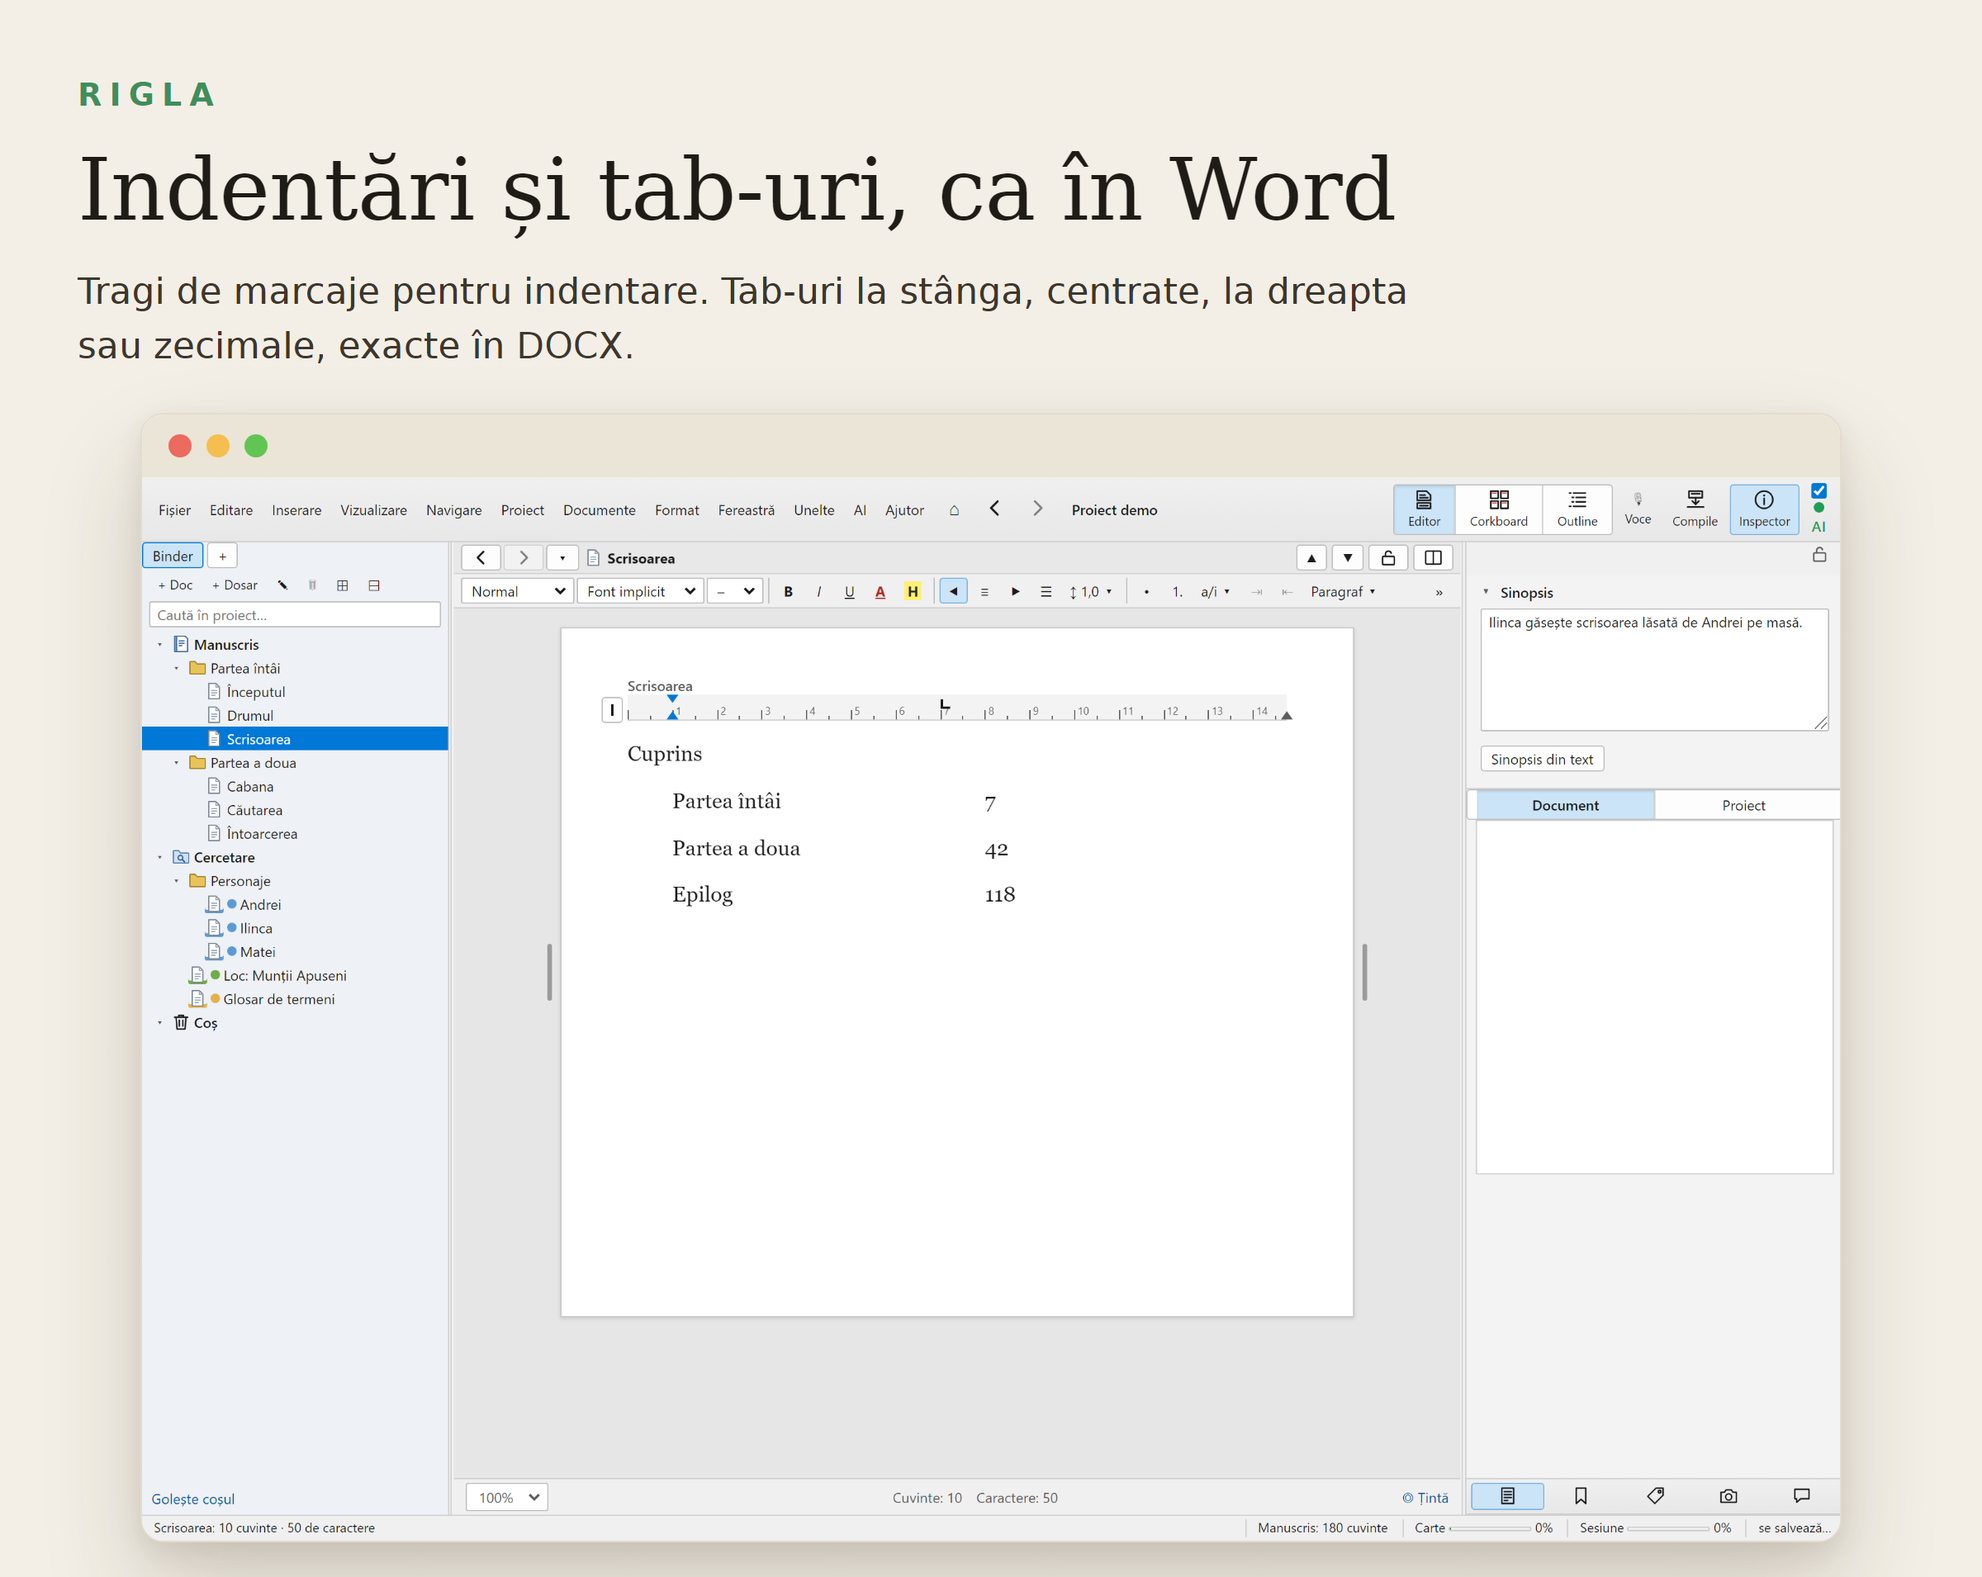
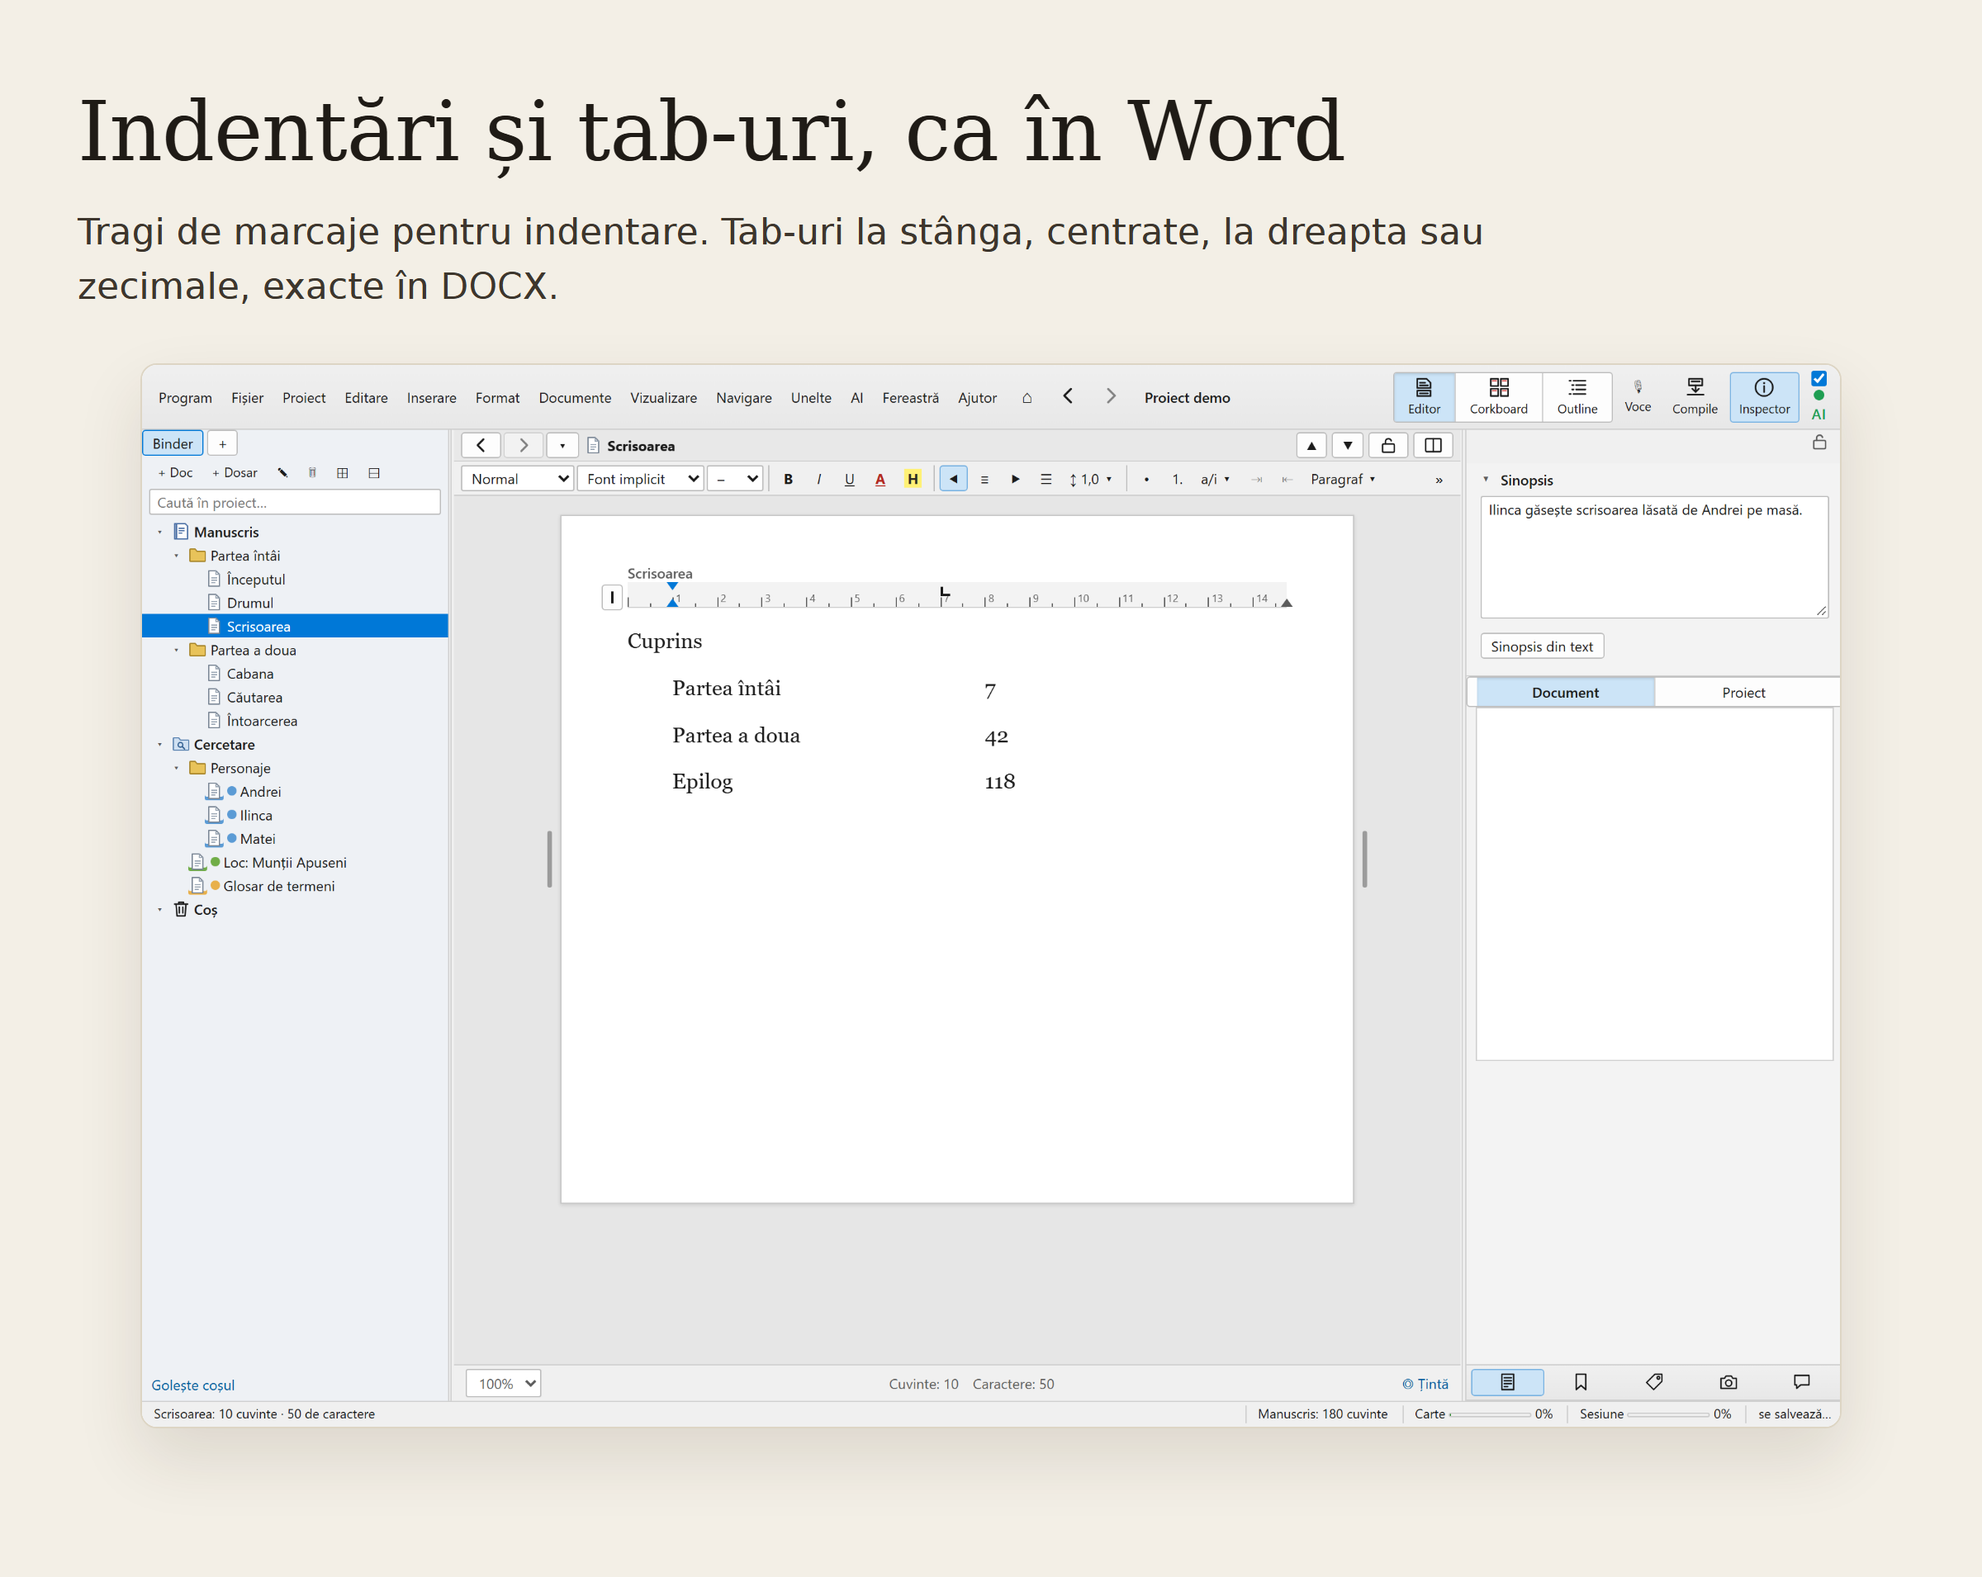
docs(readme): Hallmark floor - hero+CTA, plain screenshot frames, no kickers/fake chrome
README: H1 + one sentence + Descarca pentru Windows; drop middle-dot nav; move search section out of Compile details; fix typos; drop duplicate images. Shots regenerated from demo with plain frame template; cli.png kicker removed; SVGs without status dots, middle dots, tilted cards.

diff --git a/README.md b/README.md
@@ -1,14 +1,11 @@
-<p align="center">
-  <img src="./assets/readme/hero.png" width="100%" alt="Pneuma Sofer, program de scris gratuit: cartea ta pe bucăți, apoi întreagă. Captură cu panoul de fișe al unui roman.">
-</p>
+# Pneuma Sofer
+
+Program gratuit de scris cărți lungi, în română și engleză: textul stă pe fișe, câte una pentru fiecare scenă sau capitol, iar la final primești cartea întreagă.
+
+**[Descarcă pentru Windows](../../releases/latest)**
 
 <p align="center">
-  <a href="../../releases/latest"><strong>Descarcă pentru Windows</strong></a> ·
-  <a href="#3-ce-face">Ce face</a> ·
-  <a href="#5-cum-lucrezi">Cum lucrezi</a> ·
-  <a href="#7-cum-lucrați-împreună">Împreună</a> ·
-  <a href="#8-ce-urmează">Ce urmează</a> ·
-  <a href="#instalare">Instalare</a>
+  <img src="./assets/readme/hero.png" width="100%" alt="Panoul de fișe al unui roman în Pneuma Sofer: fiecare scenă pe fișa ei, binderul în stânga, inspectorul în dreapta">
 </p>
 
 ## 1. Ce este
@@ -25,10 +22,6 @@ Pentru oricine are de scris sau de tradus un text lung și vrea să-l stăpânea
 
 ## 3. Ce face
 
-<p align="center">
-  <img src="./assets/readme/features.svg" width="100%" alt="Ce face: scrii pe fișe, traduci, dictezi, corectezi, cercetezi, lucrați împreună, agenți AI, compilezi cartea întreagă">
-</p>
-
 | Funcția | Pe scurt |
 |---|---|
 | [Scrii pe fișe](#scrii-pe-fișe) | scene și capitole pe fișe, cronologie, legături între documente |
@@ -36,7 +29,8 @@ Pentru oricine are de scris sau de tradus un text lung și vrea să-l stăpânea
 | [Dictezi](#dictezi-dted--dictare-și-transcriere) | F9 și vorbești; textul apare la cursor sau înlocuiește selecția |
 | [Corectezi](#corectezi) | revizie fără AI, corecturi învățate, asistent AI opțional, versiuni |
 | [Cercetezi](#cercetezi) | întrebi sursele și primești răspuns cu trimiteri |
-| [Agenți AI](#agenți-ai) | Claude sau Codex lucrează direct în carte, dacă vrei |
+| [Cauți](#cauți-oriunde) | căutare rapidă, căutare avansată, căutare după formatare |
+| [Agenți AI](#ai-opțional-într-un-singur-loc) | Claude sau Codex lucrează direct în carte, dacă vrei |
 | [Compilezi](#compilezi) | cartea întreagă în Word, PDF, EPUB și alte formate |
 | [Lucrați împreună](#7-cum-lucrați-împreună) | același proiect pe mai multe calculatoare; cine ce a schimbat și când |
 
@@ -90,13 +84,13 @@ Cronologia îți arată pe zile cine unde e, ca să prinzi contradicțiile înai
 
 ### Traduci
 
-Fără nicio configurare, traducerea merge pe endpointul public gratuit al Google (etichetat onest „Google (fără cheie)" — neoficial, fără SLA). Cu cheie Google Cloud Translation sau **conectare cu contul Google (OAuth)**, traducerea folosește API-urile oficiale: se dezvoltă din secțiunea *Setări → Servicii și conturi → Google Cloud Translation* cu butonul „Conectează cu Google" (consimțământ în browser, fără parolă stocată).
-
 <p align="center">
   <img src="./assets/readme/translate.png" width="100%" alt="Originalul englez în stânga și traducerea română în dreapta, pe același ecran">
 </p>
 
 Pui fișierul Word primit de la editură și Pneuma Sofer îl împarte pe capitole. Ții originalul într-o parte și traducerea în cealaltă; fereastra în care scrii are chenar verde, cealaltă e ușor estompată. La final trimiți înapoi un singur fișier Word, cu notele de subsol la locul lor.
+
+Fără nicio configurare, traducerea folosește serviciul public gratuit al Google, marcat în program „Google (fără cheie)”: neoficial și fără garanții. Cu o cheie Google Cloud Translation sau conectat cu contul Google, folosești API-ul oficial; se configurează din *Setări → Servicii și conturi → Google Cloud Translation*, cu butonul „Conectează cu Google” (consimțământ în browser, fără parolă salvată).
 
 <p align="center">
   <img src="./assets/readme/context.png" width="100%" alt="Clic dreapta pe un cuvânt: meniul cu Traduce (DeepL, Google Translate), Dicționare, Cercetare pe web, Asistent AI și În proiect">
@@ -111,10 +105,6 @@ Clic dreapta pe un cuvânt și ai la îndemână:
 - **Asistent AI, În proiect, NotebookLM:** explicație sau traducere, căutare în toată cartea, glosar, întrebări despre termen în sursele tale. Cu un notebook configurat (Setări → Chei și conturi) și serverul `notebooklm-mcp` pornit, apare și „Întreabă NotebookLM pe surse (întrebări de continuare)”: editorul interoghează notebook-ul cu întrebări de continuare până primește un răspuns pe surse.
 
 ### Dictezi: D&TED – Dictare și transcriere
-
-<p align="center">
-  <img src="./assets/readme/voice-team.svg" width="100%" alt="Scrii cu vocea: vorbești și fraza apare pe fișa scenei, fără internet. Lucrați împreună: fiecare om cu culoarea lui pe fișele aceleiași cărți, una blocată de Ana">
-</p>
 
 <p align="center">
   <img src="./assets/readme/dictation.png" width="100%" alt="Dictare în Pneuma Sofer: textul spus apare în scena Începutul, iar jos e bara de dictare cu nivelul microfonului, Pauză, Stop și Anulează">
@@ -178,15 +168,19 @@ Asistentul AI face corectură, rezumate sau o a doua părere; vezi exact ce schi
 
 În **Cercetare → Întreabă** discuți cu sursele tale: primești răspunsul cu trimiteri [1], [2], iar un clic te duce la pasaj. Continui discuția, alegi ce surse folosește (manuscrisul, cercetarea, notele sau anumite dosare), aduci PDF, Word, text sau pagini web și salvezi răspunsul ca notă ori îl inserezi în text, cu trimiterile ca note de subsol. Fără AI, panoul doar caută în surse. Cartea se poate trimite și în **NotebookLM**, **Gemini**, **ChatGPT** sau **Manus**, gata împărțită.
 
-### AI — tot ce ține de AI, într-un singur loc (opțional)
+### Cauți oriunde
 
-<p align="center">
-  <img src="./assets/readme/irep.png" width="100%" alt="Panoul I-REP / I-EDIT: rundele editoriale cu AI, streaming live și estimare de apeluri">
-</p>
+**Ctrl+O** deschide *Căutarea rapidă*: bați câteva litere și apar instant rezultate pe **Titluri**, **Sinopse** și **Text**, cu bucata de context; Enter deschide documentul, Shift îl deschide în panou de referință, Alt în cealaltă jumătate de editor, iar „Căutare completă în proiect" te duce în căutarea avansată cu interogarea precompletată.
 
-Rundele **I-EDIT / I-REP** arată acum răspunsul AI **pe măsură ce se scrie** (streaming live, cronometru, anulare cu Esc) și o **estimare înainte de rulare**: „Estimare: 7 documente × 3 bucle ≈ 21 apeluri AI". Rezultatele serviciilor (gramatică, sinonime, traducere, dicționare) apar **în interiorul paginii**, într-un popover ancorat la selecție, cu mărimi care se potrivesc conținutului — nu ca fereastră peste text și fără trimitere la site-uri externe.
+Căutarea avansată înțelege **operatorii** „începe cu cuvântul" / „se termină cu", **inversarea rezultatelor** (ce NU se potrivește), **sortarea** (binder, titlu A-Z/Z-A, dată), **termenii speciali** („frază exactă", -excludere, wildcard cu *), **sintaxa de date** (`mdate:2026-05`, `cdate:<2y`), filtrul Draft / selecție / Included-Excluded, și ține rezultatele într-o **colecție vie** („Rezultatele căutării") care se actualizează la fiecare deschidere. *Înlocuire* are, pe lângă format, și metadatele personalizate, snapshot-uri („Include snapshot-urile") și schimbă titlurile.
 
-Tot ce folosește AI stă grupat și se pornește sau se oprește dintr-un singur loc (pastila **AI** din bară și *Setări → Chei și conturi*). Fără AI, programul merge întreg: verificarea **I-REP** și reparațiile sigure (deterministe) rămân.
+**Căutare după formatare** (Ctrl+Alt+F) găsește text după stiluri de caracter, linkuri, imagini sau text păstrat (preserve), iar corkboard-ul și outline-ul au **bare de filtrare** (Ctrl+F în vederea lor) care restrâng fișele la ce cauți. Uneltele adaugă **Focalizarea pe dialoguri**: toate replicile din proiect, într-un singur panou, pentru corectură.
+
+### AI, opțional, într-un singur loc
+
+Tot ce folosește AI stă grupat și se pornește sau se oprește dintr-un singur loc: pastila AI din bară și *Setări → Chei și conturi*. Fără AI, programul merge întreg; verificarea I-REP și reparațiile sigure rămân.
+
+Rundele I-EDIT și I-REP arată răspunsul AI pe măsură ce se scrie, cu cronometru și anulare cu Esc, plus o estimare înainte de rulare: „Estimare: 7 documente × 3 bucle ≈ 21 apeluri AI”. Rezultatele serviciilor (gramatică, sinonime, traducere, dicționare) apar în pagină, lângă selecție, nu într-o fereastră peste text.
 
 - **Asistentul AI** — corectură, rezumate sau o a doua părere; vezi exact ce schimbă și accepți doar ce vrei.
 - **I-EDIT** — runde editoriale pe tot textul, cu regulile tale.
@@ -261,15 +255,7 @@ Formatele predefinite nu se modifică: apeși *Duplică*, redenumești copia și
 
 **5. Separatoare și înlocuiri.** În *Separatoare* alegi ce se pune între scene (rând gol, „#”, „* * *”) și între bucăți de tipuri diferite. În *Înlocuiri* schimbi la Compile un text cu altul, cu sau fără majuscule, cuvânt întreg sau expresie regulată; textul tău din proiect rămâne neatins. Tab-ul **Înlocuiri** de la nivel de proiect ține o listă separată, comună tuturor formatelor, aplicată înaintea celor pe format — cu ordine, bifă activ/inactiv și editare chiar și pentru formatele integrate.
 
-### Cauți oriunde, dintr-o lovitură
-
-**Ctrl+O** deschide *Căutarea rapidă*: batzi câteva litere și apar instant rezultate pe **Titluri**, **Sinopse** și **Text**, cu bucata de context; Enter deschide documentul, Shift îl deschide în panou de referință, Alt în cealaltă jumătate de editor, iar „Căutare completă în proiect" te duce în căutarea avansată cu interogarea precompletată.
-
-Căutarea avansată înțelege **operatorii** „începe cu cuvântul" / „se termină cu", **inversarea rezultatelor** (ce NU se potrivește), **sortarea** (binder, titlu A-Z/Z-A, dată), **termenii speciali** („frază exactă", -excludere, wildcard cu *), **sintaxa de date** (`mdate:2026-05`, `cdate:<2y`), filtrul Draft / selecție / Included-Excluded, și ține rezultatele într-o **colecție vie** („Rezultatele căutării") care se actualizează la fiecare deschidere. *Înlocuire* are, pe lângă format, și metadatele personalizate, snapshot-uri („Include snapshot-urile") și schimbă titlurile.
-
-**Căutare după formatare** (Ctrl+Alt+F) găsește text după îngrășăminte de caracter, linkuri, imagini sau text păstrat (preserve), iar corkboard-ul și outline-ul au **bare de filtrare** (Ctrl+F în vederea lor) care restrâng fișele la ce cauți. Uneltele adaugă **Focalizarea pe dialoguri**: toate replicile din proiect, într-un singur panou, pentru corectură.
-
-**6. Note și comentarii.** Notele de subsol rămân note de subsol sau devin note la finalul fiecărui capitol ori al cărții. Comentariile devin comentarii Word (în DOCX) sau dispar. Adnotările din text nu ajung în carte, iar evidențierile și culorile se pot elimina. Numerotarea notelor o alegi: 1, 2, 3 · i, ii, iii · a, b, c sau simboluri (*, †, ‡, §), cu reluare de la 1 în fiecare capitol, dacă vrei.
+**6. Note și comentarii.** Notele de subsol rămân note de subsol sau devin note la finalul fiecărui capitol ori al cărții. Comentariile devin comentarii Word (în DOCX) sau dispar. Adnotările din text nu ajung în carte, iar evidențierile și culorile se pot elimina. Numerotarea notelor o alegi: 1, 2, 3; i, ii, iii; a, b, c sau simboluri (*, †, ‡, §), cu reluare de la 1 în fiecare capitol, dacă vrei.
 
 **7. Pagina de tipar.** În fila *Pagină* alegi dimensiunea (A4, A5, Letter, 6 × 9 in sau personalizată), marginile sus, jos, interior și exterior, cu *margini în oglindă* pentru pagini față-verso. Antetul și subsolul au câte trei câmpuri (stânga, centru, dreapta), cu substituenți: titlul capitolului curent în antet, numărul paginii în subsol. Prima pagină a fiecărui capitol și paginile de la început (copertă, titlu, cuprins) rămân fără antet, iar numerotarea pornește de la textul cărții. Tot aici alegi fontul textului și al titlurilor, mărimea, spațierea și alineatul.
 
@@ -309,7 +295,7 @@ Vrei doar câteva pagini tipărite, fără toată cartea? *Fișier → Tipărire
   <img src="./assets/readme/customize.png" width="100%" alt="Fereastra Personalizează bara de instrumente: elementele disponibile în stânga, cele din bară în dreapta">
 </p>
 
-Sus vezi doar ce folosești des; restul stă în meniuri ordonate. Din *Vizualizare → Personalizează bara de instrumente* alegi singur butoanele și le muți cu mouse-ul. Tot ce ține de AI stă într-un singur meniu. Rigla (Ctrl+Alt+Shift+R) arată indentările și tab-urile, ca în Word.
+Sus vezi doar ce folosești des; restul stă în meniuri ordonate. Din *Program → Personalizează bara de instrumente* alegi singur butoanele și le muți cu mouse-ul. Tot ce ține de AI stă într-un singur meniu. Rigla (Ctrl+Alt+Shift+R) arată indentările și tab-urile, ca în Word.
 
 <details>
 <summary><strong>Meniul AI și rigla</strong></summary>
@@ -362,7 +348,7 @@ Tot ce e descris mai sus e gata. Planul pentru versiunile următoare:
 - **Roluri:** autor, traducător, redactor (care doar comentează și propune) și cititor; **modificări propuse**, marcate până le accepți.
 - **Compararea versiunilor direct din jurnalul echipei.**
 - **Adnotări pe PDF-urile** din Cercetare.
-- **Golurile din auditul de paritate cu Scrivener 3**: manualul oficial (capitolele 1–26) a fost comparat capitol cu capitol cu Pneuma Sofer; diferențele sunt prioritize în [`docs/PARITY-AUDIT-NEXT-CHAPTERS.md`](docs/PARITY-AUDIT-NEXT-CHAPTERS.md) (5 goluri P1: Snapshots Manager, selectarea textului după stil, cuprinsul cu numere de pagină, lista de conținut din Compile, printarea fișelor și a outline-ului).
+- **Golurile din auditul de paritate cu Scrivener 3**: manualul oficial (capitolele 1–26) a fost comparat capitol cu capitol cu Pneuma Sofer; diferențele sunt prioritizate în [`docs/PARITY-AUDIT-NEXT-CHAPTERS.md`](docs/PARITY-AUDIT-NEXT-CHAPTERS.md) (5 goluri P1: Snapshots Manager, selectarea textului după stil, cuprinsul cu numere de pagină, lista de conținut din Compile, printarea fișelor și a outline-ului).
 
 Planul complet, cu detaliile tehnice, e în [`ROADMAP.md`](ROADMAP.md); dictarea e descrisă în [`docs/DTED.md`](docs/DTED.md).
 
